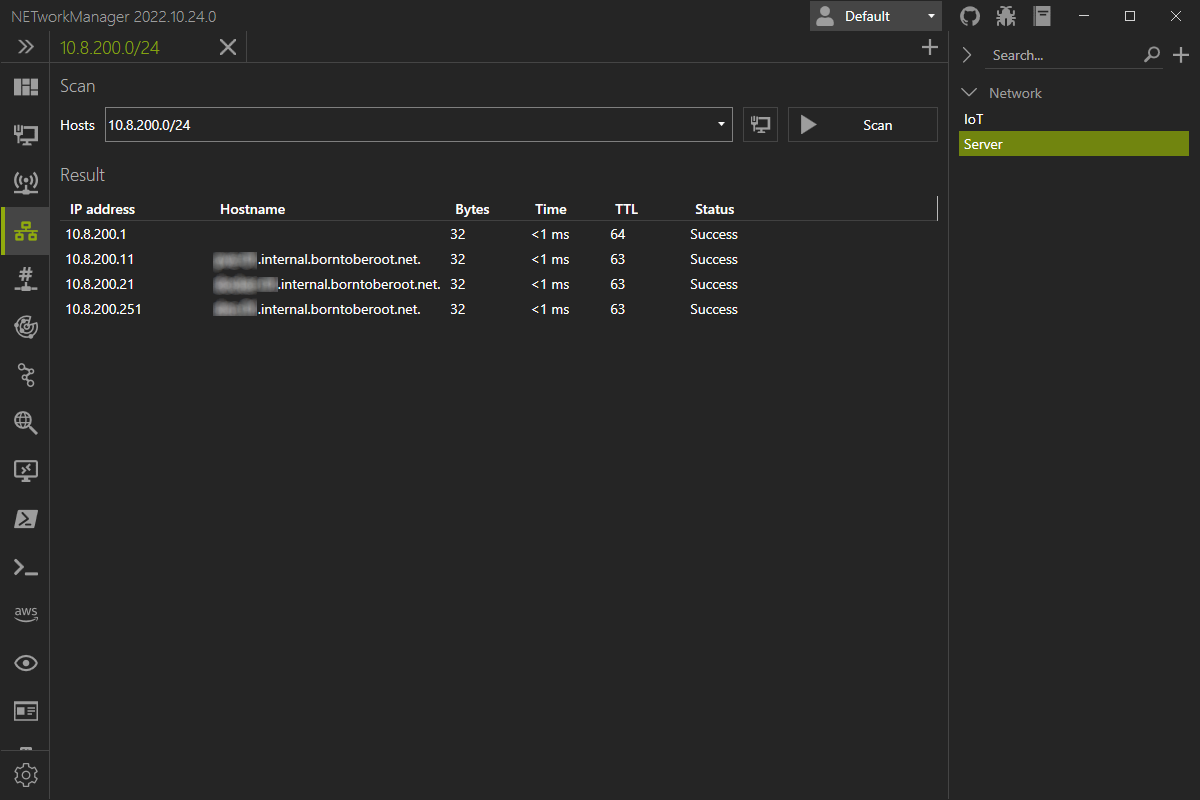
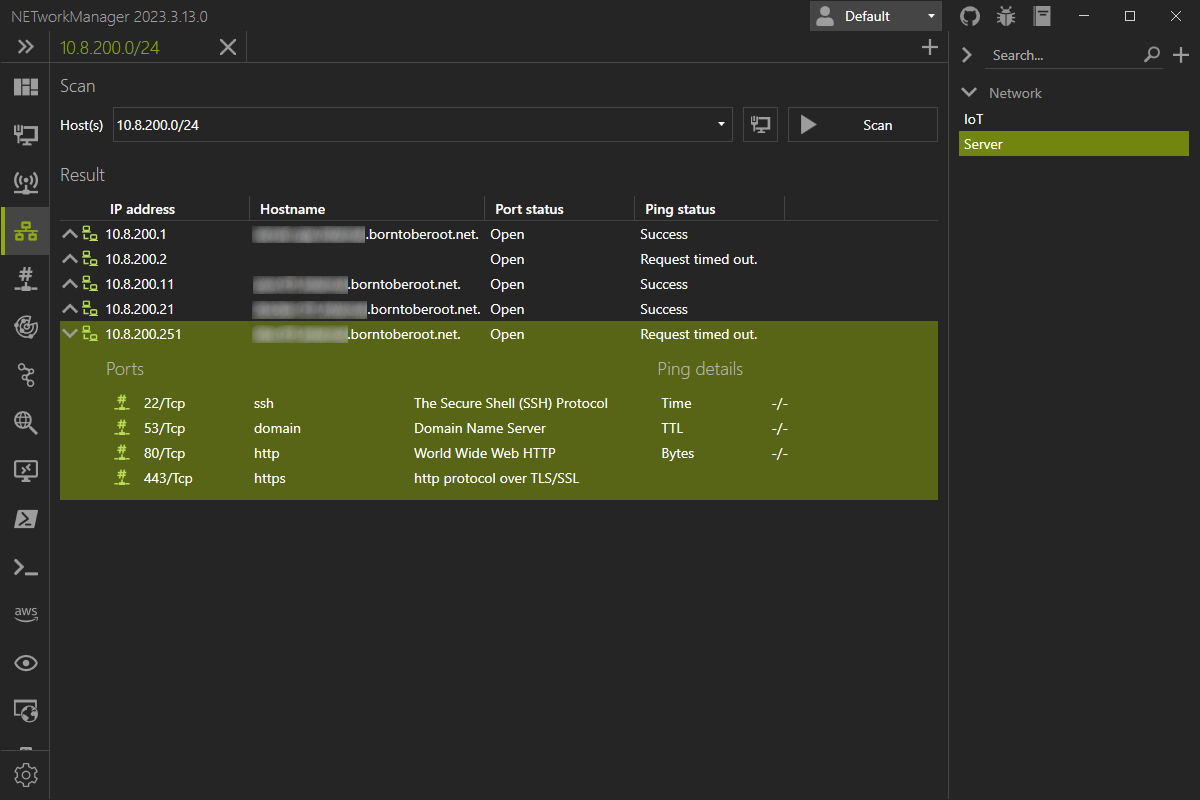
Docs: Application > IP Scanner (#2029)
* Docs: IP scanner

* Docs: IP Scanner

* Docs: Update IP Scanner settings

* Docs: Add note to application thread pool

diff --git a/docs/Documentation/01_Application/04_IPScanner.md b/docs/Documentation/01_Application/04_IPScanner.md
@@ -10,7 +10,7 @@ permalink: /Documentation/Application/IPScanner
 
 # IP Scanner
 
-With the **IP Scanner** you can scan for active devices in subnets or IP ranges that are reachable via icmp.
+With the **IP Scanner** you can scan for active devices in subnets or IP ranges that are reachable via icmp or have a common tcp port open.
 
 Possible inputs are:
 
@@ -59,24 +59,21 @@ IP range to scan for active devices.
 
 ## Settings
 
-### Show scan result for all IP addresses
+### Show unreachable IP addresses and ports
 
-Show the scan result for all IP addresses including the ones that are not active.
+Show the scan result for all IP addresses and ports including the ones that are not active.
 
 **Type:** `Boolean`
 
 **Default:** `Disabled`
 
-### Threads
+### Attempts
 
-Number of threads to use for scanning.
+Attempts how often an icmp request is retried for each IP address if the request has timed out.
 
-**Type:** `Integer` [Min `1`, Max `1024`]
+**Type:** `Integer` [Min `1`, Max `10`]
 
-**Default:** `256`
-
-{: note }
-Too many simultaneous requests may be blocked by a firewall. You can reduce the number of threads to avoid this, but this will increase the scan time.<br/><br/>Too many threads can also cause performance problems on the device.
+**Default:** `2`
 
 ### Timeout (ms)
 
@@ -94,14 +91,6 @@ Size of the buffer for each icmp request in bytes.
 
 **Default:** `32`
 
-### Attempts
-
-Attempts how often a request is retried for each IP address if the request has timed out.
-
-**Type:** `Integer` [Min `1`, Max `10`]
-
-**Default:** `2`
-
 ### Resolve hostname
 
 Resolve the hostname (PTR) for each IP address.
@@ -117,6 +106,33 @@ Show a detailed error message if the DNS resolution fails for an IP address.
 **Type:** `Boolean`
 
 **Default:** `Disabled`
+
+### Scan ports
+
+Scan each IP address for open `tcp` ports.
+
+**Type:** `Boolean`
+
+**Default:** `Enabled`
+
+### Ports
+
+List of `tcp` ports to scan for each IP address.
+
+**Type:** `String`
+
+**Default:** `22; 53; 80; 139; 389; 636; 443; 445; 3389`
+
+{: .note }
+Multiple ports and port ranges can be combined with a semicolon (e.g. `22; 80; 443`). Only common and known ports should be scanned to check if a host is reachable. Use the [Port Scanner](/Documentation/Application/PortScanner) for a detailed port scan.
+
+### Timeout (ms)
+
+Timeout in milliseconds after which a port is considered closed / timed out.
+
+**Type:** `Integer` [Min `100`, Max `15000`]
+
+**Default:** `4000`
 
 ### Resolve MAC address and vendor
 
@@ -149,3 +165,31 @@ In the arguments you can use the following placeholders:
 | --------------- | ----------- |
 | `$$ipaddress$$` | IP address  |
 | `$$hostname$$`  | Hostname    |
+
+### Max. concurrent host threads
+
+Maximal number of threads that are used to scan for active hosts (IP addresses).
+
+**Type:** `Integer` [Min `1`, Max `512`]
+
+**Default:** `256`
+
+{: .note }
+Too many simultaneous requests may be blocked by a firewall. You can reduce the number of threads to avoid this, but this will increase the scan time.<br/><br/>Too many threads can also cause performance problems on the device.
+
+{: .note }
+This setting only change the maximum number of concurrently executed threads per host scan. See also the [General](/Documentation/Settings/General) settings to configure the application wide thread pool.
+
+### Max. concurrent port threads
+
+Maximal number of threads that are used to scan for open ports for each host (IP address).
+
+**Type:** `Integer` [Min `1`, Max `10`]
+
+**Default:** `5`
+
+{: .note }
+Too many simultaneous requests may be blocked by a firewall. You can reduce the number of threads to avoid this, but this will increase the scan time.<br/><br/>Too many threads can also cause performance problems on the device.
+
+{: .note }
+This setting only change the maximum number of concurrently executed threads per port scan. See also the [General](/Documentation/Settings/General) settings to configure the application wide thread pool.
